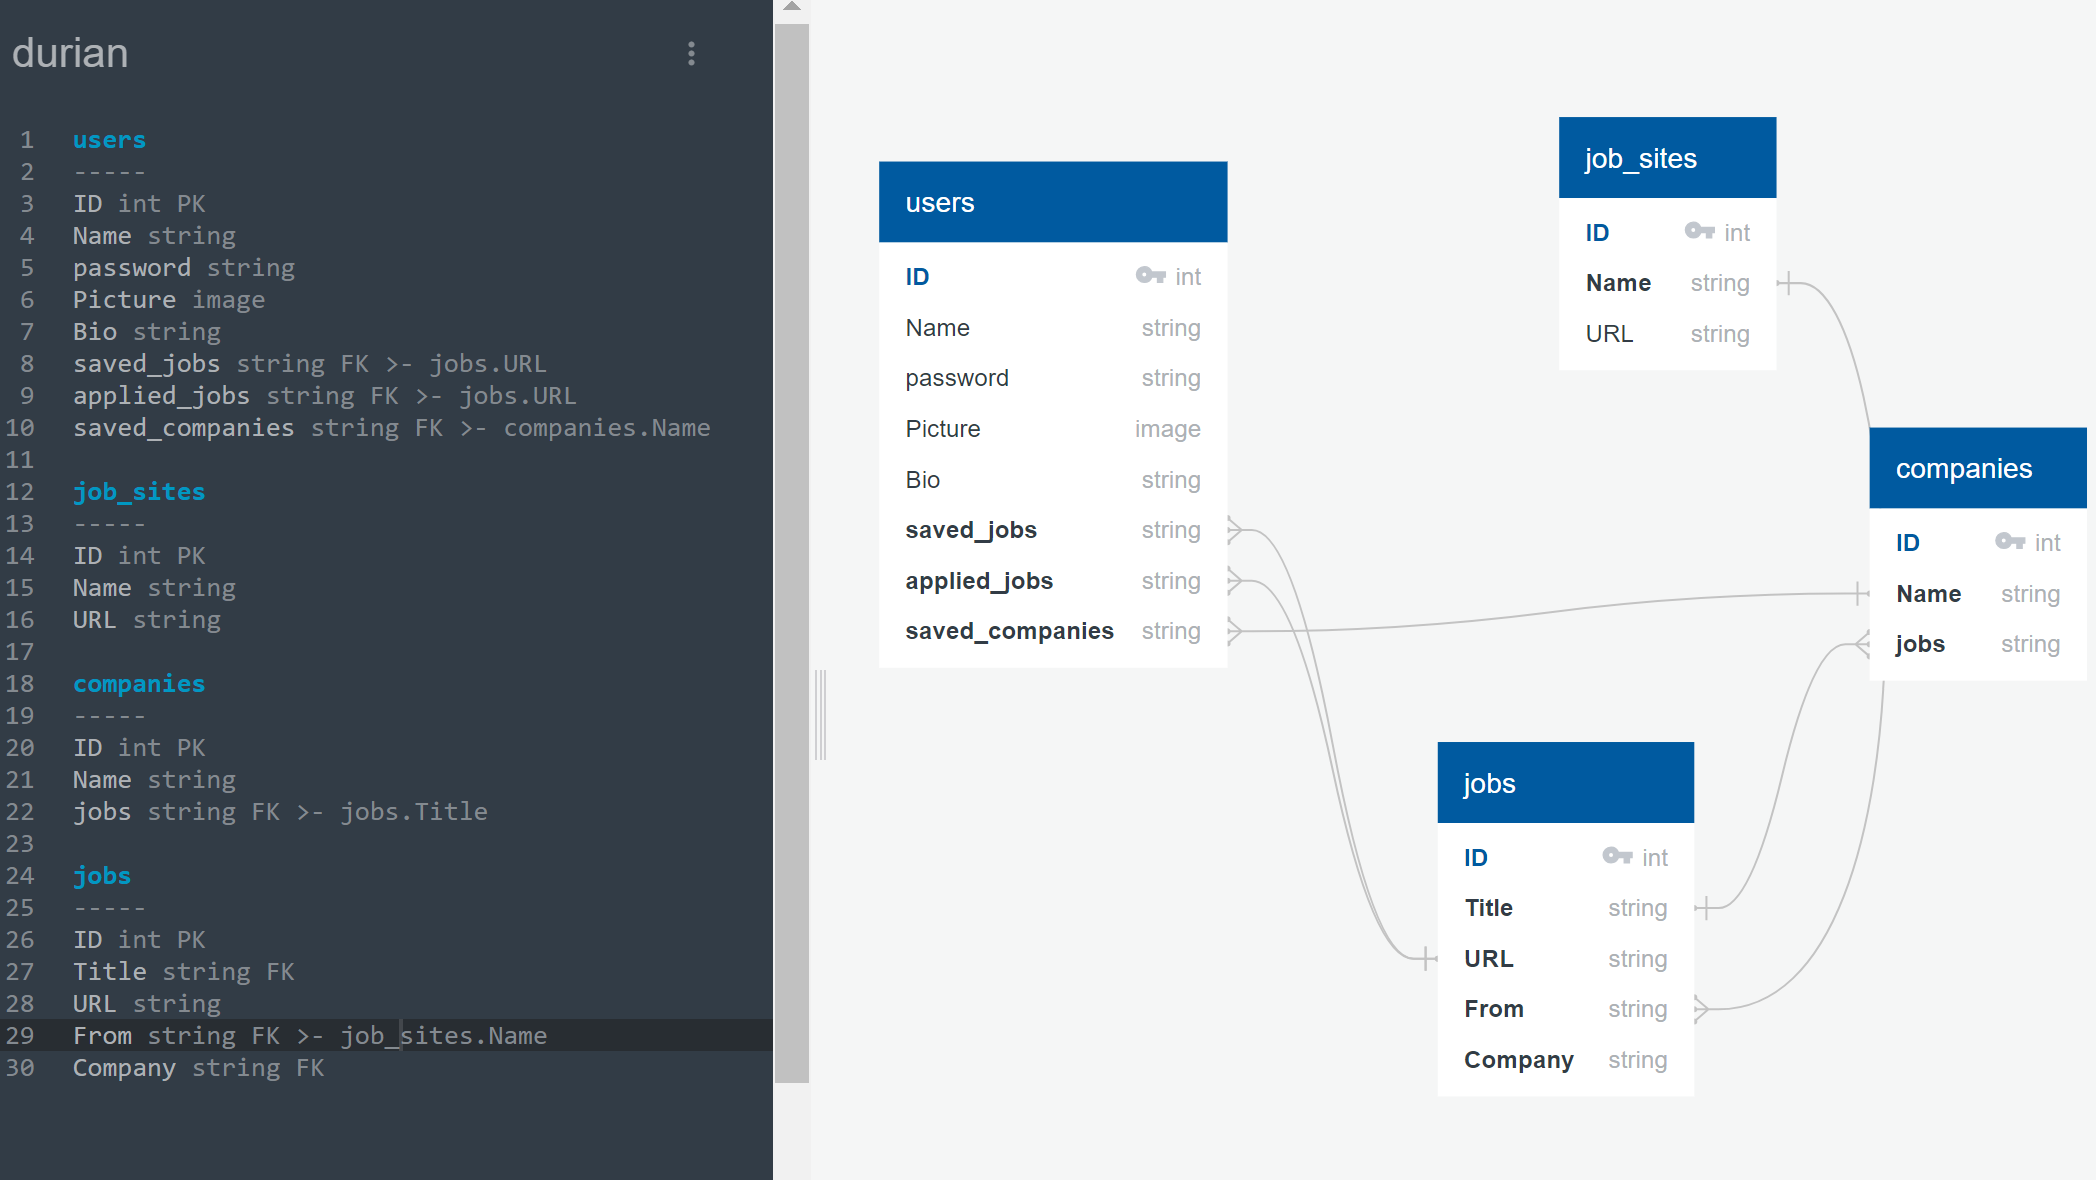
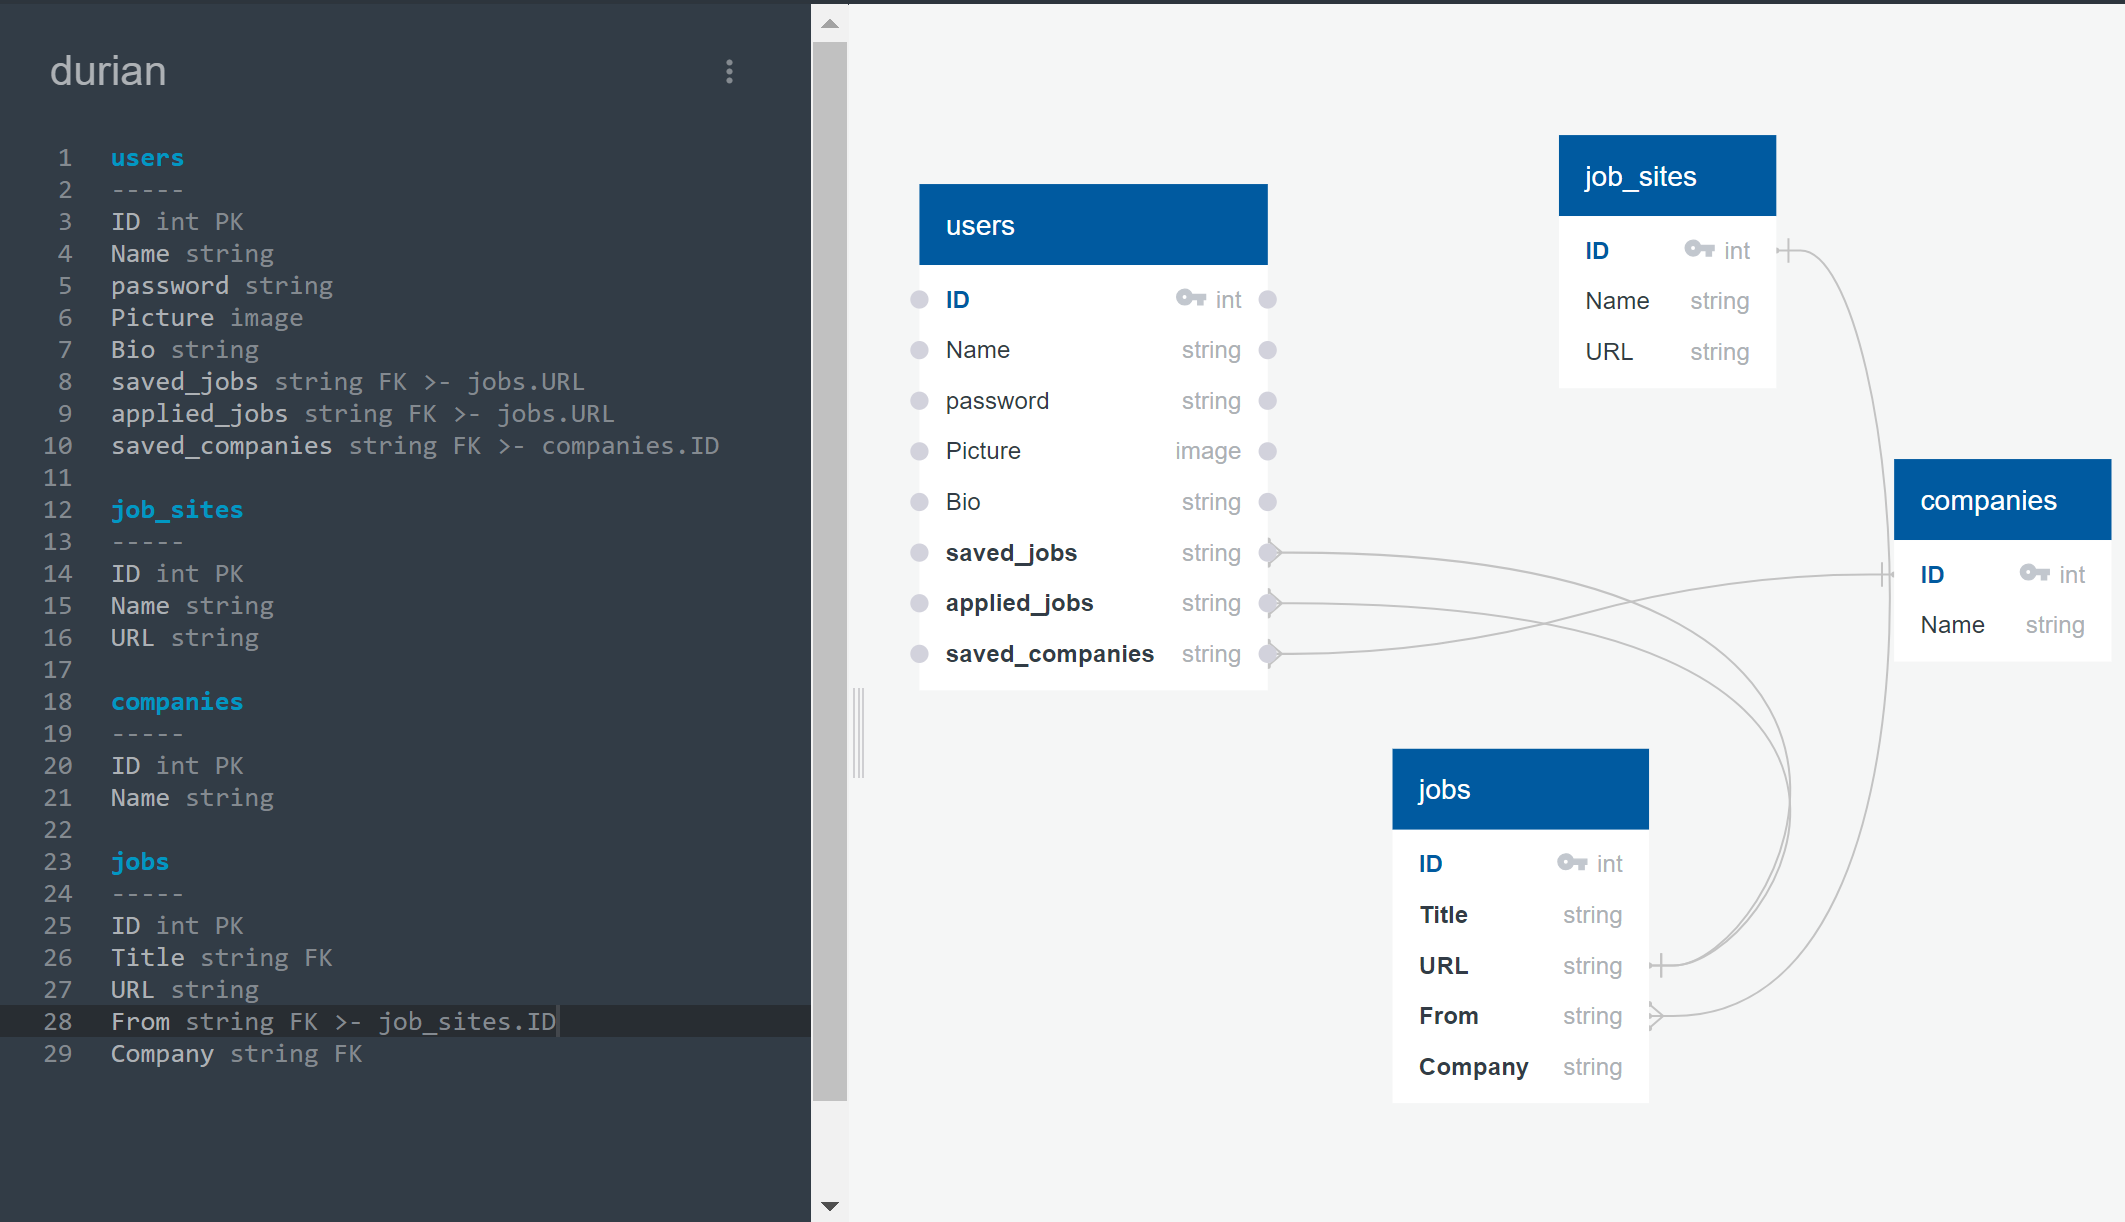
proposal writeup and shema design update

diff --git a/proposal.md b/proposal.md
@@ -1,0 +1,69 @@
+1. What tech stack will you use for your final project? We recommend that you use
+React and Node for this project, however if you are extremely interested in
+becoming a Python developer you are welcome to use Python/Flask for this
+project.
+
+This project will use react and node, as well as various job-search APIs.
+
+2. Is the front-end UI or the back-end going to be the focus of your project? Or are
+you going to make an evenly focused full-stack application?
+
+I strongly favor the backend. That being said, it's vital to try to be well-rounded and I don't want to fall into the stereotype of CSS-avoidant backend developer. I think the backend is going to have, by necessity, much more depth than the front end, but user experience is vital for any public-facing application or website. So if I had to guess at this point, I would give it an 80/20 split between backend and frontend focus, but that 20% frontend needs to be immaculate.
+
+3. Will this be a website? A mobile app? Something else?
+
+At the time of writing it's slated to be a website, but a mobile app would be a really cool thing to build now that the question is posed. Time allowing, I would love to build a mobile app out of the project as well as a website.
+
+4. What goal will your project be designed to achieve?
+
+The project's goal is to help job seekers by pulling results from multiple job boards and aggregating them in a single place.
+
+5. What kind of users will visit your app? In other words, what is the demographic of
+your users?
+
+Job seekers; anyone looking for a new job or career change.
+
+1. What data do you plan on using? How are you planning on collecting your data?
+You may have not picked your actual API yet, which is fine, just outline what kind
+of data you would like it to contain. You are welcome to create your own API and
+populate it with data. If you are using a Python/Flask stack are required to create
+your own API.
+
+Any relevant job site's API; so far both USA Jobs and glassdoor's API are public, free, and potentially have the data I'm looking for.  I would really like to include indeed and a few others as indeed is one of the premiere job listing sites, but have had difficulty scraping it thusfar.
+
+Ultimately, considering the supposed simplicity of the idea, I feel that at least 3 job site APIs would make for a good showing.
+
+1. In brief, outline your approach to creating your project (knowing that you may not
+know everything in advance and that these details might change later). Answer
+questions like the ones below, but feel free to add more information:
+a. What does your database schema look like?
+
+The schema is detailed in the durianschema.PNG file in this github repo.
+
+b. What kinds of issues might you run into with your API? This is especially
+important if you are creating your own API, web scraping produces
+notoriously messy data.
+
+Difficulties include dealing with site scraping for job sites that don't have APIs, and dealing with duplicate job postings across multiple job sites.
+
+c. Is there any sensitive information you need to secure?
+
+User login information. I can see a need if the project were to scale beyond capstone status to protect job search/application data, but currently none of that is slated to be exposed at public endpoints anyway.
+
+d. What functionality will your app include?
+
+Multi site job searches, job site exclusion/inclusion, saved jobs, saved companies, and (if possible as a stretch feature) easy apply buttons where applicable.
+
+e. What will the user flow look like?
+
+Users can access the search functionality without logging in, but logging in gains access to saved jobs, saved companies, and a more curated job list.
+
+Users can enter a job title, and/or a location, and check/uncheck which job sites to search. They will then be presented with a list of say, 10 different job postings, which they can explore from there.
+
+f. What features make your site more than a CRUD app? What are your
+stretch goals?
+
+Stretch goals are
+- Every API I integrate past the initial 3
+- Leetcode integration (for software engineer/programming searches, if the company they search for has known leetcode questions they ask)
+- Easy apply: allow users to upload their resume, and apply to jobs in one click. This is a very complicated stretch goal and I'm uncertain if I'll be able to implement it with the time constraints presented.
